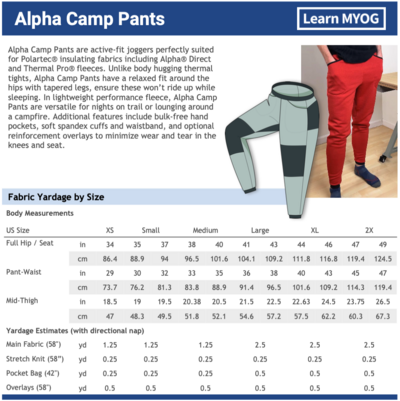
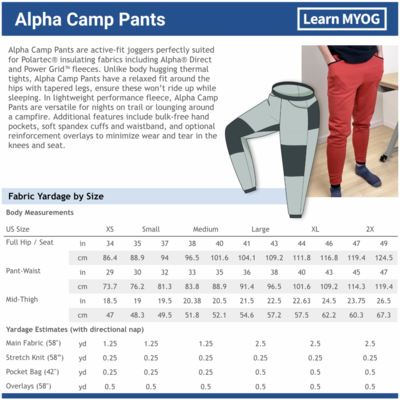
feedback from Leslie

diff --git a/alphaCampPants.html b/alphaCampPants.html
@@ -61,6 +61,18 @@
 							<img src="images/alphaCampPants/thumbs/seatoverlay.jpg" title="Seat and knee reinforcement panels (optional)" loading="lazy" /></a>
 						</article>
 						<article>
+							<a href="images/alphaCampPants/discovery/1.jpg" class="image">
+							<img src="images/alphaCampPants/discovery/thumbs/1.jpg" title="Alpha Direct 60gsm made by Discovery Trekking" loading="lazy" /></a>
+						</article>
+						<article>
+							<a href="images/alphaCampPants/discovery/2.jpg" class="image">
+							<img src="images/alphaCampPants/discovery/thumbs/2.jpg" title="Alpha Direct 60gsm made by Discovery Trekking" loading="lazy" /></a>
+						</article>
+						<article>
+							<a href="images/alphaCampPants/discovery/3.jpg" class="image">
+							<img src="images/alphaCampPants/discovery/thumbs/3.jpg" title="Yoga Stretch cuffs made by Discovery Trekking" loading="lazy" /></a>
+						</article>
+						<article>
 							<a href="images/alphaCampPants/patterncard.png" class="image">
 							<img src="images/alphaCampPants/thumbs/patterncard.png" title="Pattern card showing sizes and yardage" loading="lazy" /></a>
 						</article>
@@ -220,7 +232,7 @@
 											</tfoot>
 										</table>
 										<p>
-											There are many variants and weights in all Polartec® product categories such as Alpha® Direct, Thermal Pro®, Power Stretch®, and Power Grid™. For Alpha Direct sleep pants, Polartec style #4028 (68gsm) or #4004 (86gsm) are ideal.
+											There are many variants and weights in all Polartec® product categories such as Alpha® Direct, Power Stretch®, and Power Grid™. For Alpha Direct sleep pants, Polartec style #4028 (68gsm) or #4004 (86gsm) are ideal.
 										</p>
 										<div class="items style3 small">
 											<section> 
@@ -266,8 +278,8 @@
 							<!-- element hidden until button click, build_gallery.js -->
 							<div id = "build_gallery" style="display:none;" class="gallery style1 small"> 
 								<article>
-									<a href="images/alphaCampPants/build/step1.3.jpg" class="image">
-									<img src="images/alphaCampPants/build/thumbs/step1.3.jpg" title="step 1.3" loading="lazy" /></a>
+									<a href="images/alphaCampPants/build/step1.3a.jpg" class="image">
+									<img src="images/alphaCampPants/build/thumbs/step1.3a.jpg" title="step 1.3" loading="lazy" /></a>
 								</article>
 								<article>
 									<a href="images/alphaCampPants/build/step2.1.jpg" class="image">
